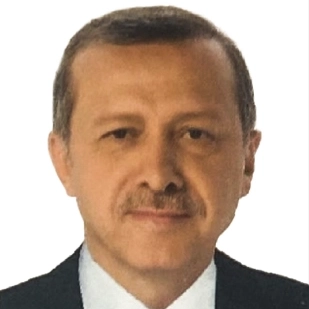
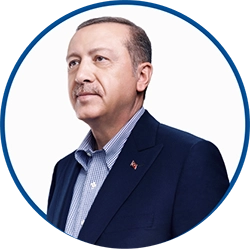
new pictures

diff --git a/src/components/Scores/Scores.jsx b/src/components/Scores/Scores.jsx
@@ -1,17 +1,14 @@
 import "./Scores.scss";
 import { RxCross1 } from "react-icons/rx";
 import { RxEnvelopeClosed } from "react-icons/rx";
-import { RxEnvelopeOpen } from "react-icons/rx";
+
 import { HiOutlineCheck } from "react-icons/hi";
 
-import { MdPeopleOutline } from "react-icons/md";
 import { VoteContext } from "../../context/VoteContext";
 import { useContext } from "react";
-import { HiTemplate } from "react-icons/hi";
 
 const Scores = () => {
-  const { gecersizVotes, setGecersizVotes, totalVotes, validVotes } =
-    useContext(VoteContext);
+  const { gecersizVotes, totalVotes, validVotes } = useContext(VoteContext);
 
   return (
     <div className="dashboard__container">
@@ -28,7 +25,7 @@ const Scores = () => {
           </div>
         </div>
         {/* /// */}
-        {/* /// */}
+
         <div className="scores__row">
           <div className="scores__icon">
             <HiOutlineCheck />

diff --git a/src/components/Credits/Credits.scss b/src/components/Credits/Credits.scss
@@ -31,7 +31,7 @@
       align-items: center;
     }
     .credits__name {
-      outline: 1px solid blue;
+      //   outline: 1px solid blue;
       width: 18rem;
       display: flex;
       justify-content: start;
@@ -46,7 +46,7 @@
       }
     }
     .credits__icon {
-      outline: 1px solid orange;
+      //   outline: 1px solid orange;
       display: flex;
       align-content: center;
       justify-content: start;

diff --git a/src/components/Profile/Profile.scss b/src/components/Profile/Profile.scss
@@ -7,14 +7,13 @@
     margin-bottom: 0.2rem;
   }
   img {
-    width: 7.1rem;
-    border-radius: 50%;
-    border: 2px solid #034d92;
+    width: 6.1rem;
+    // border-radius: 50%;
+
     @media screen and (max-height: 570px) {
       display: none;
     }
   }
   .profile__kemal {
-    border: 2px solid #c00000;
   }
 }

diff --git a/src/components/ProfileVoteAdd/ProfileVoteAdd.jsx b/src/components/ProfileVoteAdd/ProfileVoteAdd.jsx
@@ -10,8 +10,8 @@ const ProfileVoteAdd = () => {
     setRecepVotes,
     kemalVotes,
     setKemalVotes,
-    gecersizVotes,
-    setGecersizVotes,
+    // gecersizVotes,
+    // setGecersizVotes,
   } = useContext(VoteContext);
 
   return (

diff --git a/src/components/VoteCounter/VoteCounter.scss b/src/components/VoteCounter/VoteCounter.scss
@@ -4,6 +4,7 @@
   text-align: center;
   justify-content: center;
   width: 42vw;
+  margin-bottom: 0.5rem;
 
   .voteCounter_name {
     padding: 3px 0;

diff --git a/src/components/VoidVote/VoidVote.scss b/src/components/VoidVote/VoidVote.scss
@@ -20,6 +20,7 @@
 
   .void_buttons {
     display: flex;
+
     width: 42vw;
     gap: 0.5rem;
     .btn {

diff --git a/src/components/Inputs/Inputs.jsx b/src/components/Inputs/Inputs.jsx
@@ -1,5 +1,4 @@
 import "./Inputs.scss";
-import React from "react";
 
 const Inputs = () => {
   return (
